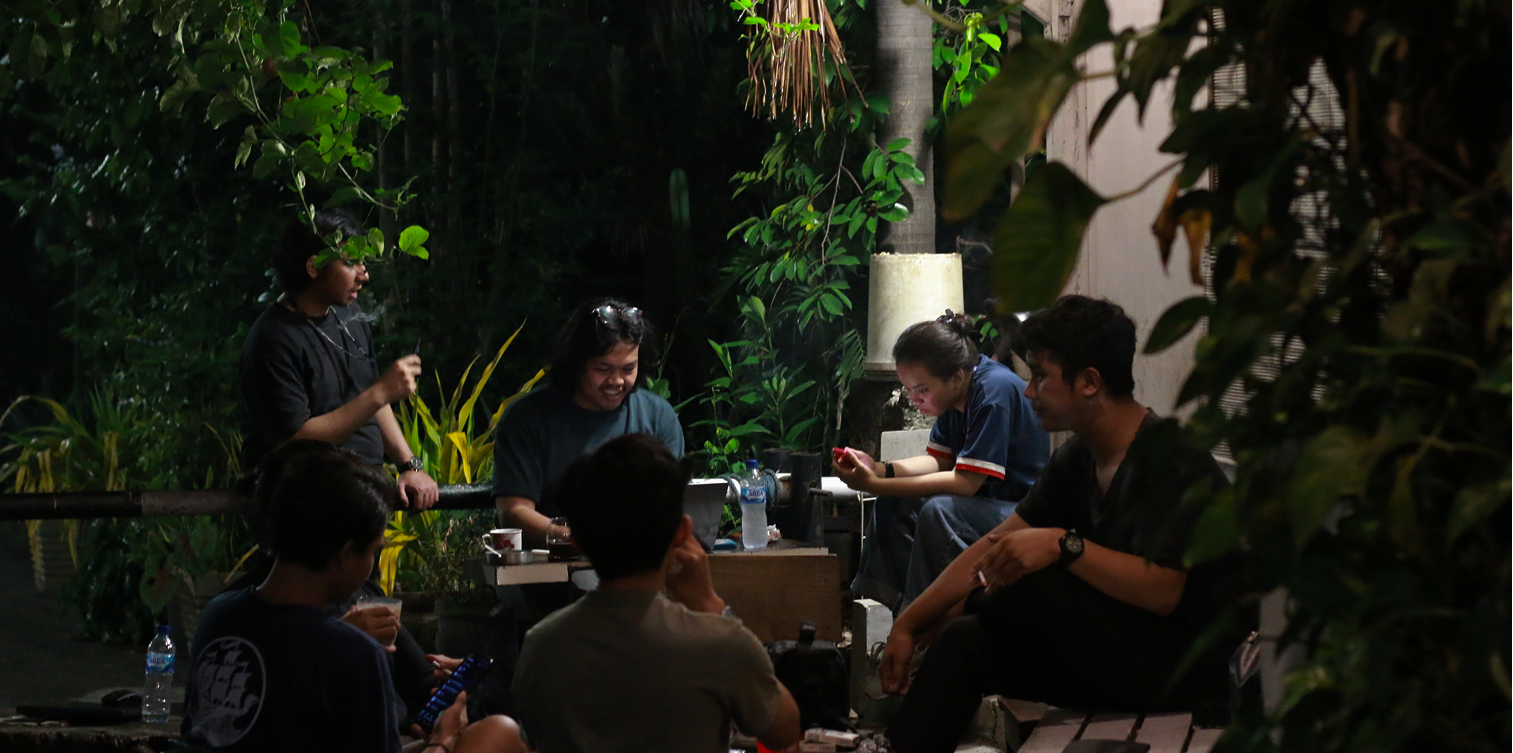
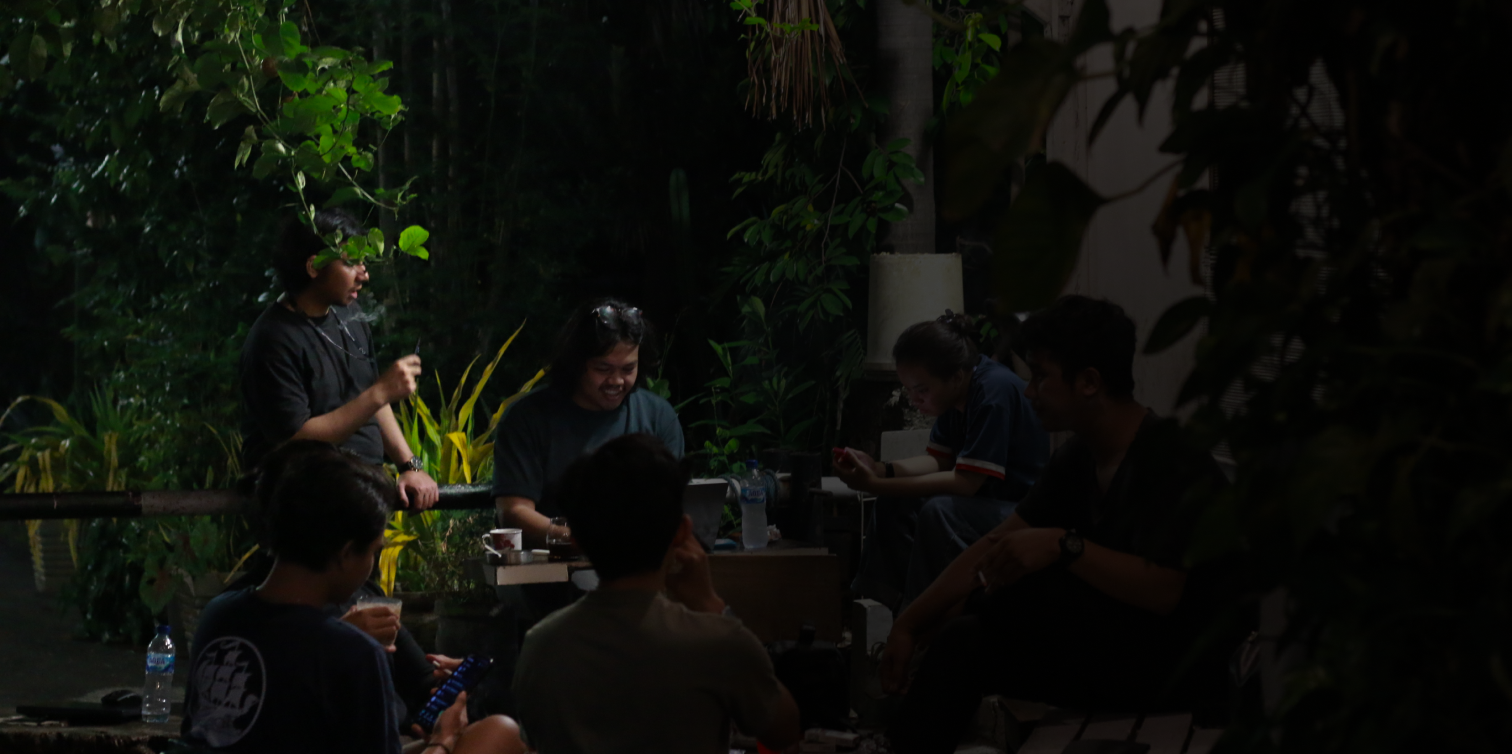
catatan section done

diff --git a/resources/views/kalibrasi.blade.php b/resources/views/kalibrasi.blade.php
@@ -346,76 +346,162 @@
                 </div>
             </section>
             <!--temurasa section-->
-            <section id="temurasa">
-                <div class="relative h-screen">
-                    <div
-                        class="absolute h-screen bg-cover bg-center inset-0 bg-[url('{{ asset('asset/img/temurasa.png') }}')] [mask-image:linear-gradient(to_left,transparent,gray_60%)]"
-                    ></div>
+            <section
+                id="temurasa"
+                class="bg-[url('{{ asset('asset/img/temurasa.png') }}')] min-h-screen bg-cover bg-center"
+             >
+                <div class="flex flex-col md:flex-row">
                     <!--left side-->
-                    <div class="relative z-10">
-                        {{-- Path diubah menggunakan helper asset() --}}
+                    <div
+                        class="w-full md:w-1/2 flex items-center justify-center p-8"
+                     >
                         <img
-                            src="{{ asset('asset/kalibrasi/jurnalseduh.svg') }}"
-                            alt=""
+                            src="{{ asset('asset/kalibrasi/temurasa.svg') }}"
+                            alt="Jurnal Seduh"
+                            class="hidden md:flex md:w-2/4"
                         />
                     </div>
-                    <!--right side-->
-                    <div class="relative z-10 w-[80%] h-full text-white">
-                        <div class="flex flex-col">
-                            <div class="pt-[10rem] pl-[10rem]">
-                                <p class="text-xl/8 text-justify">
-                                    Malacca Coffee Konten micro-blog atau reels
-                                    berisi cerita dari individu dengan
-                                    pengalaman atau pemikiran yang inspiratif.
-                                    Format narasi personal ini membangun
-                                    kedekatan emosional antara cerita, ruang,
-                                    dan pembaca. Konten kurasi unggahan dari
-                                    website resmi Malacca yang menghimpun
-                                    tulisan-tulisan panjang: mulai dari esai
-                                    ringan, ulasan, hingga refleksi tematik.
+                    <!--section logo-->
+                    <div
+                        class="w-full md:w-1/2 flex flex-col justify-center px-8 py-16 md:pl-10 lg:pl-20"
+                     >
+                        <!--paragraph-->
+                        <div class="mb-12 md:pt-10">
+                            <p
+                                class="text-justify text-white font-light text-large"
+                             >
+                                Rubrik micro-blog yang menyuarakan
+                                opini, refleksi, dan pandangan kritis
+                                terhadap isu-isu sosial, budaya,
+                                maupun keseharian—ditulis dari sudut
+                                pandang “orang biasa”. Menawarkan
+                                cara pandang yang jujur, luwes, dan
+                                membumi, sebagai bentuk dokumentasi
+                                gagasan dari tepian wacana arus utama.
+                            </p>
+                        </div>
+                        <!--article card-->
+                        <div
+                            class="grid grid-cols-1 sm:grid-cols-2 lg:grid-cols-3 gap-6"
+                         >
+                            {{-- We use ->take(3) to only loop through the first 3 articles --}} 
+                            @forelse ($articles->take(3) as $article)
+                            <a
+                                href="{{ route('articles.show', $article->slug) }}"
+                                class="relative block rounded-2xl shadow-lg h-[350px] bg-cover bg-center overflow-hidden group"
+                                style="background-image: url('{{ $article->featured_image ? asset('storage/' . $article->featured_image) : asset('asset/img/default-article.jpg') }}');"
+                            >
+                                <div
+                                    class="absolute inset-0 bg-black/60 group-hover:bg-transparent transition-colors duration-300"
+                                ></div>
+                                <div
+                                    class="relative z-10 p-4 flex flex-col h-full justify-end"
+                                >
+                                    <h6 class="text-gray-300 font-bold text-xs">
+                                        {{ $article->category }}
+                                    </h6>
+                                    <h5
+                                        class="mb-2 text-xl font-bold tracking-tight text-white"
+                                    >
+                                        {{ $article->title }}
+                                    </h5>
+                                    <p
+                                    class="product-description line-clamp-3 mb-3 font-normal text-gray-200"
+                                >
+                                    {{ $article->description }}
                                 </p>
+                                <span
+                                    class="read-more-btn text-white font-semibold hover:underline self-start"
+                                >
+                                    Read More
+                                </span>
+                                </div>
+                            </a>
+                            @empty
+                            <div class="col-span-full text-center text-white">
+                                <p>belum ada tulisan saat ini</p>
                             </div>
-                            <!--article card-->
-                            <div>
-                                <div></div>
-                                <div></div>
-                                <div></div>
-                            </div>
+                            @endforelse
                         </div>
                     </div>
                 </div>
             </section>
             <!--catatan section-->
-            <section id="catatan">
-                <div class="relative h-screen">
-                    <div
-                        class="absolute h-screen bg-cover bg-center inset-0 bg-[url('{{ asset('asset/img/catatan.png') }}')] [mask-image:linear-gradient(to_right,transparent,gray_60%)]"
-                    ></div>
+            <section id="catatan" class="bg-[url('{{ asset('asset/img/catatan.png') }}')] min-h-screen bg-cover bg-center">
+                <div class="flex flex-col md:flex-row">
                     <!--left side-->
-                    <div class="relative z-10 w-[80%] h-full text-white">
-                        <div class="flex flex-col">
-                            <div class="pt-[10rem] pl-[10rem]">
-                                <p class="text-xl/8 text-justify">
-                                    Rubrik micro-blog yang menyuarakan opini,
-                                    refleksi, dan pandangan kritis terhadap
-                                    isu-isu sosial, budaya, maupun
-                                    keseharian—ditulis dari sudut pandang “orang
-                                    biasa”. Menawarkan cara pandang yang jujur,
-                                    luwes, dan membumi, sebagai bentuk
-                                    dokumentasi gagasan dari tepian wacana arus
-                                    utama.
+                    <div
+                        class="w-full md:w-1/2 flex flex-col justify-center px-8 py-16 md:pl-10 lg:pl-20"
+                     >
+                        <!--paragraph-->
+                        <div class="mb-12 md:pt-10">
+                            <p
+                                class="text-justify text-white font-light text-large"
+                             >
+                                Rubrik micro-blog yang menyuarakan
+                                opini, refleksi, dan pandangan kritis
+                                terhadap isu-isu sosial, budaya,
+                                maupun keseharian—ditulis dari sudut
+                                pandang “orang biasa”. Menawarkan
+                                cara pandang yang jujur, luwes, dan
+                                membumi, sebagai bentuk dokumentasi
+                                gagasan dari tepian wacana arus utama.
+                            </p>
+                        </div>
+                        <!--article card-->
+                        <div
+                            class="grid grid-cols-1 sm:grid-cols-2 lg:grid-cols-3 gap-6"
+                         >
+                            {{-- We use ->take(3) to only loop through the first 3 articles --}} 
+                            @forelse ($articles->take(3) as $article)
+                            <a
+                                href="{{ route('articles.show', $article->slug) }}"
+                                class="relative block rounded-2xl shadow-lg h-[350px] bg-cover bg-center overflow-hidden group"
+                                style="background-image: url('{{ $article->featured_image ? asset('storage/' . $article->featured_image) : asset('asset/img/default-article.jpg') }}');"
+                            >
+                                <div
+                                    class="absolute inset-0 bg-black/60 group-hover:bg-transparent transition-colors duration-300"
+                                ></div>
+                                <div
+                                    class="relative z-10 p-4 flex flex-col h-full justify-end"
+                                >
+                                    <h6 class="text-gray-300 font-bold text-xs">
+                                        {{ $article->category }}
+                                    </h6>
+                                    <h5
+                                        class="mb-2 text-xl font-bold tracking-tight text-white"
+                                    >
+                                        {{ $article->title }}
+                                    </h5>
+                                    <p
+                                    class="product-description line-clamp-3 mb-3 font-normal text-gray-200"
+                                >
+                                    {{ $article->description }}
                                 </p>
+                                <span
+                                    class="read-more-btn text-white font-semibold hover:underline self-start"
+                                >
+                                    Read More
+                                </span>
+                                </div>
+                            </a>
+                            @empty
+                            <div class="col-span-full text-center text-white">
+                                <p>belum ada tulisan saat ini</p>
                             </div>
-                            <!--article card-->
-                            <div>
-                                <div></div>
-                                <div></div>
-                                <div></div>
-                            </div>
+                            @endforelse
                         </div>
                     </div>
-                    <!--right side-->
-                    <div class="relative z-10"></div>
+                    <!--section logo-->
+                    <div
+                        class="w-full md:w-1/2 flex items-center justify-center p-8"
+                     >
+                        <img
+                            src="{{ asset('asset/kalibrasi/catatan.svg') }}"
+                            alt="Jurnal Seduh"
+                            class="hidden md:flex md:w-2/4"
+                        />
+                    </div>
                 </div>
             </section>
             <!--ruang section-->
